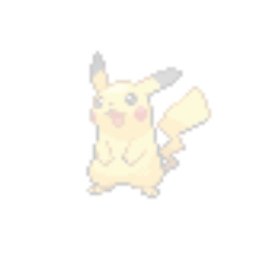
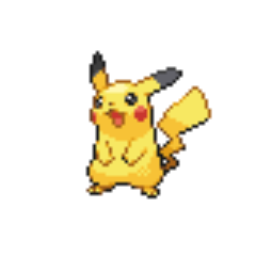
op3 arregalada yeppers

Changed region(s): [[0.3125, 0.1875, 0.8438, 0.7812]]

diff --git a/base.cpp b/base.cpp
@@ -87,12 +87,28 @@ void operacion_2(Imagen* img){
 //Creamos una función void que no devuelve ningun valor solo modifica, y agregamos nuestro puntero y la funcion float.
 void operacion_3(Imagen* img, float atenuacion){ 
     if (atenuacion < 0.0f || atenuacion > 1.0f){ 
-        cout <<"EL valor ingresado debe estar entre 0.0 y 1.0.\n"; //Si el valor dado cumple la condición de arriba arroja este error.
+        //Si el valor dado cumple la condición de arriba arroja este error.
+        cout <<"EL valor ingresado debe estar entre 0.0 y 1.0.\n";
         return;
     }
 
-    for(int i = 0; i < img->width * img->height * img->channels; i++){ //Si el valor dado esta dentro del rango,  recorremos  el arreglo. además cada pixel lo guardamos en la posición i.
-        img->data[i] = static_cast<unsigned char>(img->data[i] + (255 - img->data[i]) * atenuacion); //Acá multiplicamos cada pixel por el grado de atenuación. Esta operación como que "oscurese o hace mas transparente" y luego lo convertimos a usigned char para asegurar que esta en el rango valido para img.
+    //Si el valor dado esta dentro del rango,  recorremos  el arreglo. además cada pixel lo guardamos en la posición i.
+    for(int i = 0; i < img->width * img->height * img->channels; i++){ 
+        //Calculamos cuanto falta para que el pixel sea blanco.
+        int resta_blanco = 255 - img->data[i]; 
+        //Aplicamos la atenuacion a lo anterior para que no se vea tan oscuro.
+        int ajuste = resta_blanco * atenuacion; 
+        //Le sumamos este ajuste al pixel orginal para obtener el nuevo pixel con su diferente color.
+        int NuevoPixel = img->data[i] + ajuste; 
+
+        //Si el nuevo pixel es mayor a 255 lo ajustamos para que se quede dentro del rango permitido para una imagen.
+        if (NuevoPixel > 255) NuevoPixel = 255; 
+        //Si el neuvo pixel es menor a 0 le ajustamos para que se quede dentro del rango permitido para una imagen.
+        if (NuevoPixel < 0) NuevoPixel = 0; 
+        //**Estos ajustes los hacemos para que no nos ocurra una imagen "corrupta" como que le salga unos cuadritos extraños*/
+
+        //Convertimos el nuevo pixel a usigned char(tipo de datoq ue solo acepta valores engtre 0 y 255) y guardamos el resultado en el arreglo
+        img->data[i] = static_cast<unsigned char>(NuevoPixel); 
     }
 }
 
